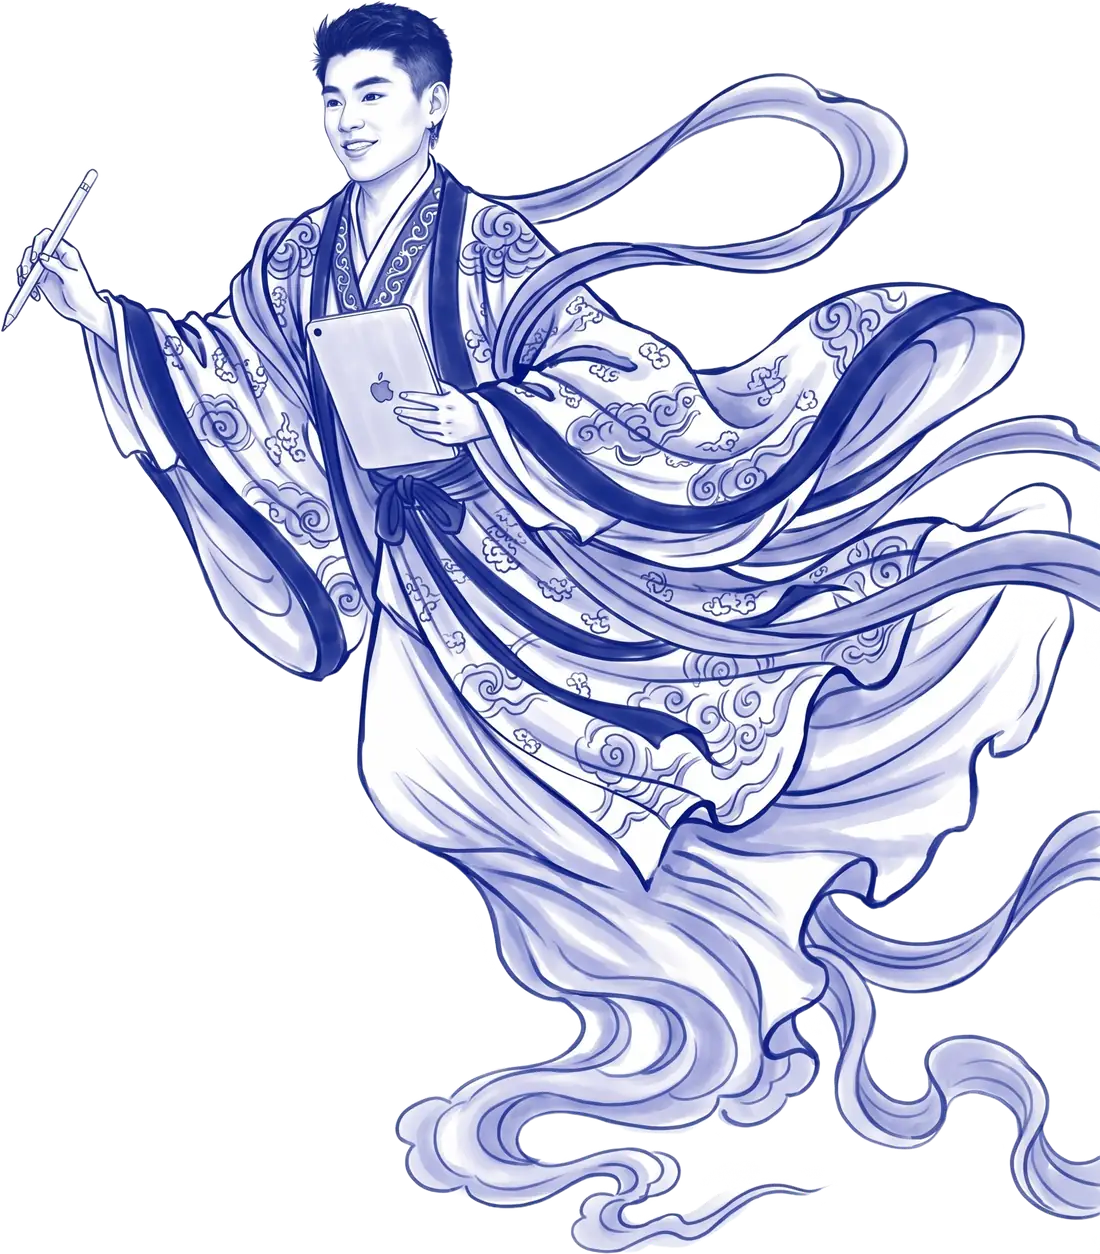
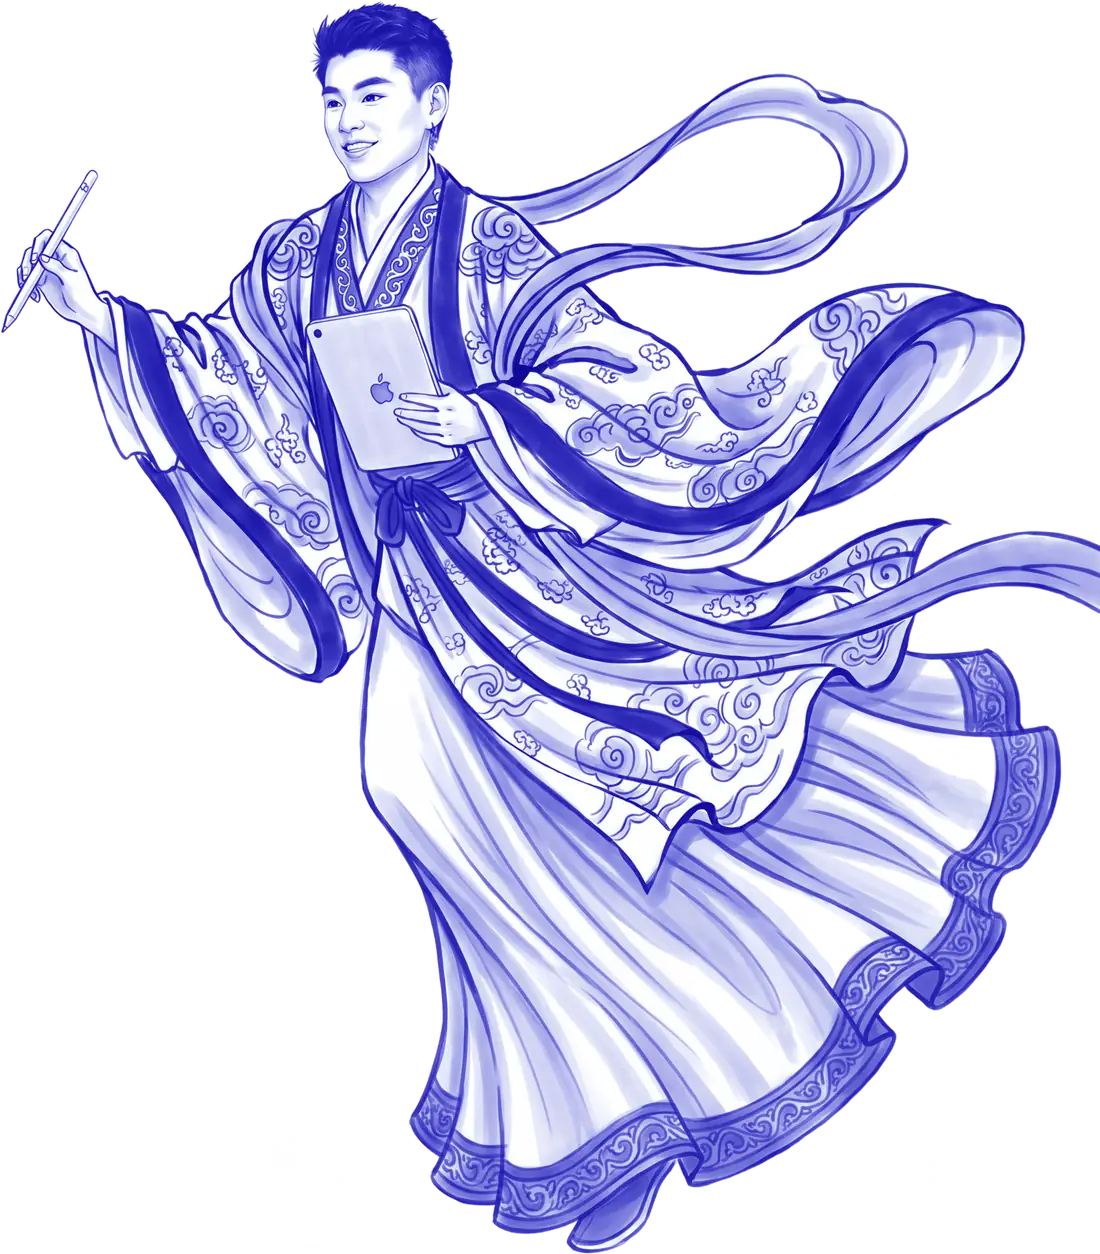
feat: cloud passage into About, Ed flies in from the right
A full-bleed, aria-hidden cloud passage now sits between the case studies
and About: two oversized cloud banks (cut sides kept off screen, tops and
bottoms feathered) and four small sprites, scrubbed so the banks parallax
and slide past each other while the sprites drift left to right.

In About, Ed now flies in from the right out of the side of a cloud tower
drawn in front of him; the tower drifts aside to sit by his hem, and he
floats gently once arrived. The flight is triggered by the figure, not the
section, so on phones it plays while he is on screen. Reduced motion and
no-JS leave everything at rest. Includes the new portrait and cloud assets.

diff --git a/tests/e2e/about.spec.ts b/tests/e2e/about.spec.ts
@@ -18,7 +18,8 @@ test('Ed\'s figure sits to the right of the About text and loads', async ({ page
   await page.goto('/');
   const ed = page.locator('#about .about__figure img.about__ed');
   await expect(ed).toHaveAttribute('alt', ALT);
-  await ed.scrollIntoViewIfNeeded();
+  // plain scroll, not scrollIntoViewIfNeeded: Ed's idle float means he is never 'stable' for Playwright
+  await ed.evaluate((el) => el.scrollIntoView({ block: 'center' }));
   await expect.poll(() => ed.evaluate((el: HTMLImageElement) => el.complete && el.naturalWidth > 0)).toBe(true);
   const fig = await page.locator('#about .about__figure').boundingBox();
   const h2 = await page.locator('#about-title').boundingBox();
@@ -33,31 +34,53 @@ test('on phones the figure comes after the text', async ({ page, isMobile }) => 
   expect(fig && text && fig.y > text.y + text.height - 1).toBe(true);
 });
 
-test('cloud bank is decorative and in front of Ed', async ({ page }) => {
+test('cloud tower is decorative and in front of Ed', async ({ page }) => {
   await page.goto('/');
-  const clouds = page.locator('#about .about__cloud');
-  await expect(clouds).toHaveCount(3);
-  for (const c of await clouds.all()) {
-    await expect(c).toHaveAttribute('alt', '');
-    await expect(c).toHaveAttribute('aria-hidden', 'true');
-  }
+  const tower = page.locator('#about .about__tower');
+  await expect(tower).toHaveCount(1);
+  await expect(tower).toHaveAttribute('alt', '');
+  await expect(tower).toHaveAttribute('aria-hidden', 'true');
   const z = await page.evaluate(() => {
     const zi = (s: string) => Number(getComputedStyle(document.querySelector(s) as HTMLElement).zIndex) || 0;
-    return { ed: zi('.about__ed'), cloud: zi('.about__cloud') };
+    return { ed: zi('.about__ed'), tower: zi('.about__tower') };
   });
-  expect(z.cloud).toBeGreaterThan(z.ed);
+  expect(z.tower).toBeGreaterThan(z.ed);
 });
 
-test('motion allowed: Ed rises in as About scrolls up', async ({ page, isMobile }) => {
+test('a decorative cloud passage sits between the case studies and About', async ({ page }) => {
+  await page.goto('/');
+  const order = await page.evaluate(() => {
+    const work = document.querySelector('#work') as HTMLElement;
+    const passage = document.querySelector('[data-cloud-passage]') as HTMLElement | null;
+    const about = document.querySelector('#about') as HTMLElement;
+    if (!passage) return null;
+    const after = (a: Node, b: Node) => Boolean(a.compareDocumentPosition(b) & Node.DOCUMENT_POSITION_FOLLOWING);
+    return after(work, passage) && after(passage, about);
+  });
+  expect(order).toBe(true);
+  const passage = page.locator('[data-cloud-passage]');
+  await expect(passage).toHaveAttribute('aria-hidden', 'true');
+  const imgs = passage.locator('img');
+  expect(await imgs.count()).toBeGreaterThanOrEqual(4);
+  for (const img of await imgs.all()) await expect(img).toHaveAttribute('alt', '');
+});
+
+test('motion allowed: Ed flies in from the right, out of the cloud tower', async ({ page, isMobile }) => {
   test.skip(isMobile, 'desktop scrub check');
   await page.emulateMedia({ reducedMotion: 'no-preference' });
   await page.goto('/');
+  const ed = page.locator('.about__ed');
   await placeAbout(page, 0.95);
   await page.waitForTimeout(1200);
   expect(await edOpacity(page)).toBeLessThan(0.5);
+  const start = await ed.boundingBox();
   await placeAbout(page, 0.15);
   await page.waitForTimeout(1200);
   await expect.poll(() => edOpacity(page)).toBeGreaterThan(0.95);
+  const rest = await ed.boundingBox();
+  const tower = await page.locator('.about__tower').boundingBox();
+  expect(start && rest && start.x > rest.x + 20).toBe(true);
+  expect(rest && tower && rest.x < tower.x + rest.width * 0.4).toBe(true);
 });
 
 test('reduced motion: Ed is fully visible and still at every scroll position', async ({ page }) => {

diff --git a/src/scripts/about-rise.ts b/src/scripts/about-rise.ts
@@ -1,30 +1,46 @@
 import { gsap } from 'gsap';
 import { ScrollTrigger } from 'gsap/ScrollTrigger';
 
+/** Where Ed starts his fly-in: hidden behind the cloud tower to his right. Phones travel less. */
+export function flightStart(desktop: boolean) {
+  return { xPercent: desktop ? 55 : 35, yPercent: 6, rotation: 3, opacity: 0 };
+}
+
+/** The tower starts this far left of its rest spot (over Ed) and drifts right out of his way. */
+export const TOWER_START = { xPercent: -22, yPercent: 4, opacity: 1 };
+
 /**
- * Work -> About transition: as #about scrolls up, Ed rises from behind the cloud bank and the clouds part around him.
- * Start states are set here, never in CSS, so with JS off or reduced motion everything is simply at rest.
+ * Work -> About: as #about scrolls up, Ed flies in from the right, out of the side of the cloud tower,
+ * and the tower drifts aside to sit by his hem. Start states are set here, never in CSS, so with JS off or
+ * reduced motion everything is simply at rest.
  */
 export function initAboutRise(root: HTMLElement): () => void {
   if (window.matchMedia('(prefers-reduced-motion: reduce)').matches) return () => {};
   const ed = root.querySelector<HTMLElement>('.about__ed');
-  if (!ed) return () => {};
+  const tower = root.querySelector<HTMLElement>('.about__tower');
+  const fig = root.querySelector<HTMLElement>('.about__figure');
+  if (!ed || !tower || !fig) return () => {};
   gsap.registerPlugin(ScrollTrigger);
-  const startY = window.matchMedia('(min-width: 60rem)').matches ? 38 : 24;
+  const desktop = window.matchMedia('(min-width: 60rem)').matches;
 
   const ctx = gsap.context(() => {
     // explicit sets, not fromTo: a scrubbed timeline sitting at progress 0 never renders its children,
     // so on a page loaded already scrolled to this point the start state would otherwise never apply
-    gsap.set(ed, { yPercent: startY, opacity: 0 });
-    gsap.set('.about__cloud--left', { xPercent: 12, yPercent: -10, scale: 1.08 });
-    gsap.set('.about__cloud--right', { xPercent: -12, yPercent: -10, scale: 1.08 });
+    gsap.set(ed, flightStart(desktop));
+    gsap.set(tower, TOWER_START);
 
+    // triggered by the figure, not the section: on phones the figure sits a whole screen below the About
+    // heading, so a section trigger would finish the flight before he is on screen
     gsap
-      .timeline({ defaults: { ease: 'none', duration: 1 }, scrollTrigger: { trigger: root, start: 'top 90%', end: 'top 20%', scrub: 0.8 } })
-      // he rises the whole way but is fully inked by 40% of the scroll
-      .to(ed, { keyframes: { '40%': { opacity: 1 }, '100%': { yPercent: 0, opacity: 1 } } }, 0)
-      .to('.about__cloud--left, .about__cloud--right', { xPercent: 0, yPercent: 0, scale: 1 }, 0)
-      .fromTo('.about__cloud--back', { opacity: 1 }, { opacity: 0.85 }, 0);
+      .timeline({ defaults: { ease: 'none', duration: 1 }, scrollTrigger: { trigger: fig, start: 'top 75%', end: 'center 55%', scrub: 0.8 } })
+      // he glides the whole way (a long ease-out) but is fully inked by 30% of the scroll
+      .to(ed, { xPercent: 0, yPercent: 0, rotation: 0, ease: 'power1.out' }, 0)
+      .to(ed, { opacity: 1, duration: 0.3 }, 0)
+      .to(tower, { xPercent: 0, yPercent: 0, opacity: 0.9, ease: 'power1.inOut' }, 0);
+
+    // idle, once he has arrived: a slow 6px float on its own transform channel (y), so it never fights the scrub
+    const float = gsap.fromTo(ed, { y: 3 }, { y: -3, duration: 3, ease: 'sine.inOut', yoyo: true, repeat: -1, paused: true });
+    ScrollTrigger.create({ trigger: fig, start: 'center 55%', end: 'max', once: true, onEnter: () => float.play() });
   }, root);
 
   return () => ctx.revert();

diff --git a/src/scripts/cloud-passage.ts b/src/scripts/cloud-passage.ts
@@ -1,0 +1,37 @@
+import { gsap } from 'gsap';
+import { ScrollTrigger } from 'gsap/ScrollTrigger';
+
+/**
+ * Scroll-scrubbed travel through the Work -> About cloud passage. The near bank rises faster than the far one
+ * (parallax) and the two banks slide past each other sideways; the small puffs drift left to right, the way
+ * the clouds travel (their tails trail left). Start states are set here, never in CSS: reduced motion and
+ * no-JS keep the static composition.
+ */
+export const PASSAGE = {
+  far: { yPercent: [10, -10], xPercent: [2, -3] },
+  near: { yPercent: [22, -22], xPercent: [-3, 3] },
+  puff: { xPercent: [-12, 12], yPercent: [8, -8] },
+} as const;
+
+export function initCloudPassage(root: HTMLElement): () => void {
+  if (window.matchMedia('(prefers-reduced-motion: reduce)').matches) return () => {};
+  gsap.registerPlugin(ScrollTrigger);
+
+  const ctx = gsap.context(() => {
+    const parts = [
+      ['.passage__bank--far', PASSAGE.far],
+      ['.passage__bank--near', PASSAGE.near],
+      ['.passage__puff', PASSAGE.puff],
+    ] as const;
+    // explicit sets first: a scrubbed timeline at progress 0 never renders, so a page loaded mid-scroll needs them
+    for (const [sel, p] of parts) gsap.set(sel, { xPercent: p.xPercent[0], yPercent: p.yPercent[0] });
+
+    const tl = gsap.timeline({
+      defaults: { ease: 'none', duration: 1 },
+      scrollTrigger: { trigger: root, start: 'top bottom', end: 'bottom top', scrub: 0.8 },
+    });
+    for (const [sel, p] of parts) tl.to(sel, { xPercent: p.xPercent[1], yPercent: p.yPercent[1] }, 0);
+  }, root);
+
+  return () => ctx.revert();
+}

diff --git a/tests/unit/about-flight.test.ts b/tests/unit/about-flight.test.ts
@@ -1,0 +1,25 @@
+import { describe, expect, it } from 'vitest';
+import { flightStart, TOWER_START } from '../../src/scripts/about-rise';
+import { PASSAGE } from '../../src/scripts/cloud-passage';
+
+describe('About fly-in', () => {
+  it('starts Ed hidden to the right, travelling less on phones', () => {
+    expect(flightStart(true)).toEqual({ xPercent: 55, yPercent: 6, rotation: 3, opacity: 0 });
+    expect(flightStart(false).xPercent).toBe(35);
+  });
+  it('starts the tower left of its rest spot so it drifts right out of his way', () => {
+    expect(TOWER_START.xPercent).toBeLessThan(0);
+  });
+});
+
+describe('cloud passage drift', () => {
+  it('banks drift in opposite directions and the near bank moves further (parallax)', () => {
+    const dir = (r: readonly number[]) => Math.sign(r[1] - r[0]);
+    const span = (r: readonly number[]) => Math.abs(r[1] - r[0]);
+    expect(dir(PASSAGE.far.xPercent)).toBe(-dir(PASSAGE.near.xPercent));
+    expect(span(PASSAGE.near.yPercent)).toBeGreaterThan(span(PASSAGE.far.yPercent));
+  });
+  it('small puffs drift left to right, the way their tails trail', () => {
+    expect(PASSAGE.puff.xPercent[1]).toBeGreaterThan(PASSAGE.puff.xPercent[0]);
+  });
+});

diff --git a/tests/e2e/small-screen.spec.ts b/tests/e2e/small-screen.spec.ts
@@ -10,3 +10,15 @@ for (const path of ['/', '/work/form-guide-redesign/']) {
     expect(overflow).toBeLessThanOrEqual(0);
   });
 }
+
+test('no horizontal overflow at 1440px with motion running', async ({ page }) => {
+  await page.setViewportSize({ width: 1440, height: 900 });
+  await page.emulateMedia({ reducedMotion: 'no-preference' });
+  await page.goto('/');
+  for (const sel of ['[data-cloud-passage]', '#about']) {
+    await page.locator(sel).scrollIntoViewIfNeeded();
+    await page.waitForTimeout(600);
+    const overflow = await page.evaluate(() => document.documentElement.scrollWidth - document.documentElement.clientWidth);
+    expect(overflow).toBeLessThanOrEqual(0);
+  }
+});

diff --git a/src/styles/global.css b/src/styles/global.css
@@ -2,6 +2,8 @@
 
 *, *::before, *::after { box-sizing: border-box; }
 html { -webkit-text-size-adjust: 100%; scroll-padding-top: 4.5rem; }
+/* decorative art (cloud passage, About's cloud tower) may bleed off the page sides: clip at the screen edge, not per section */
+main { overflow-x: clip; }
 body {
   margin: 0;
   background: var(--porcelain);
